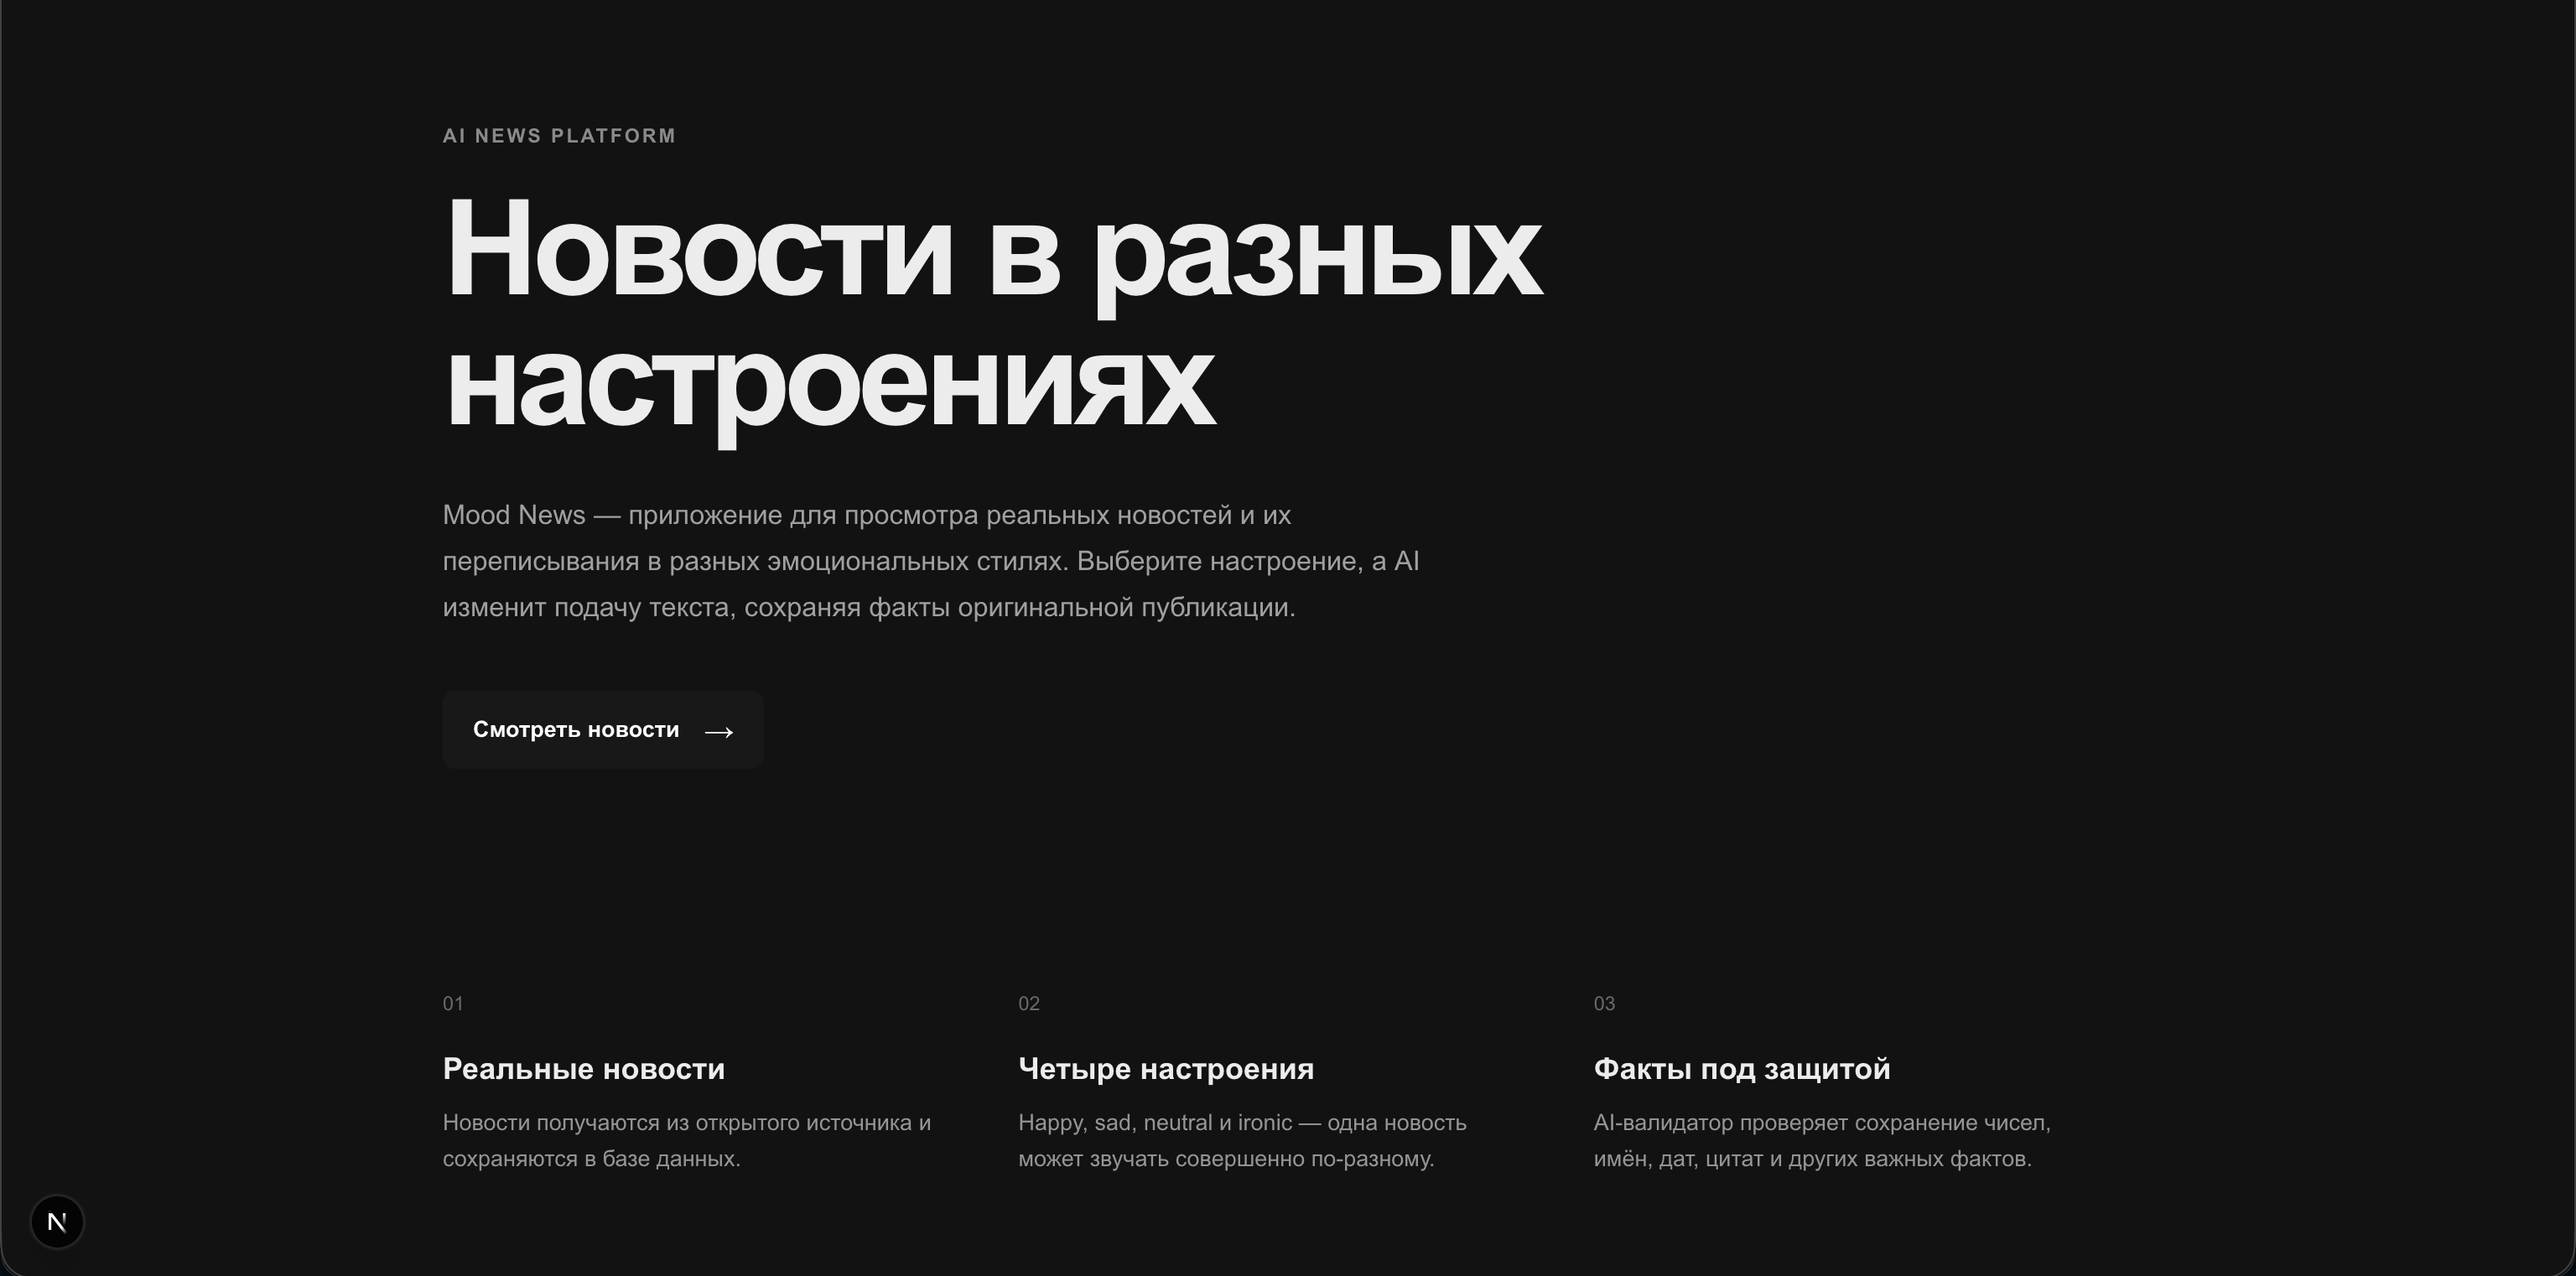
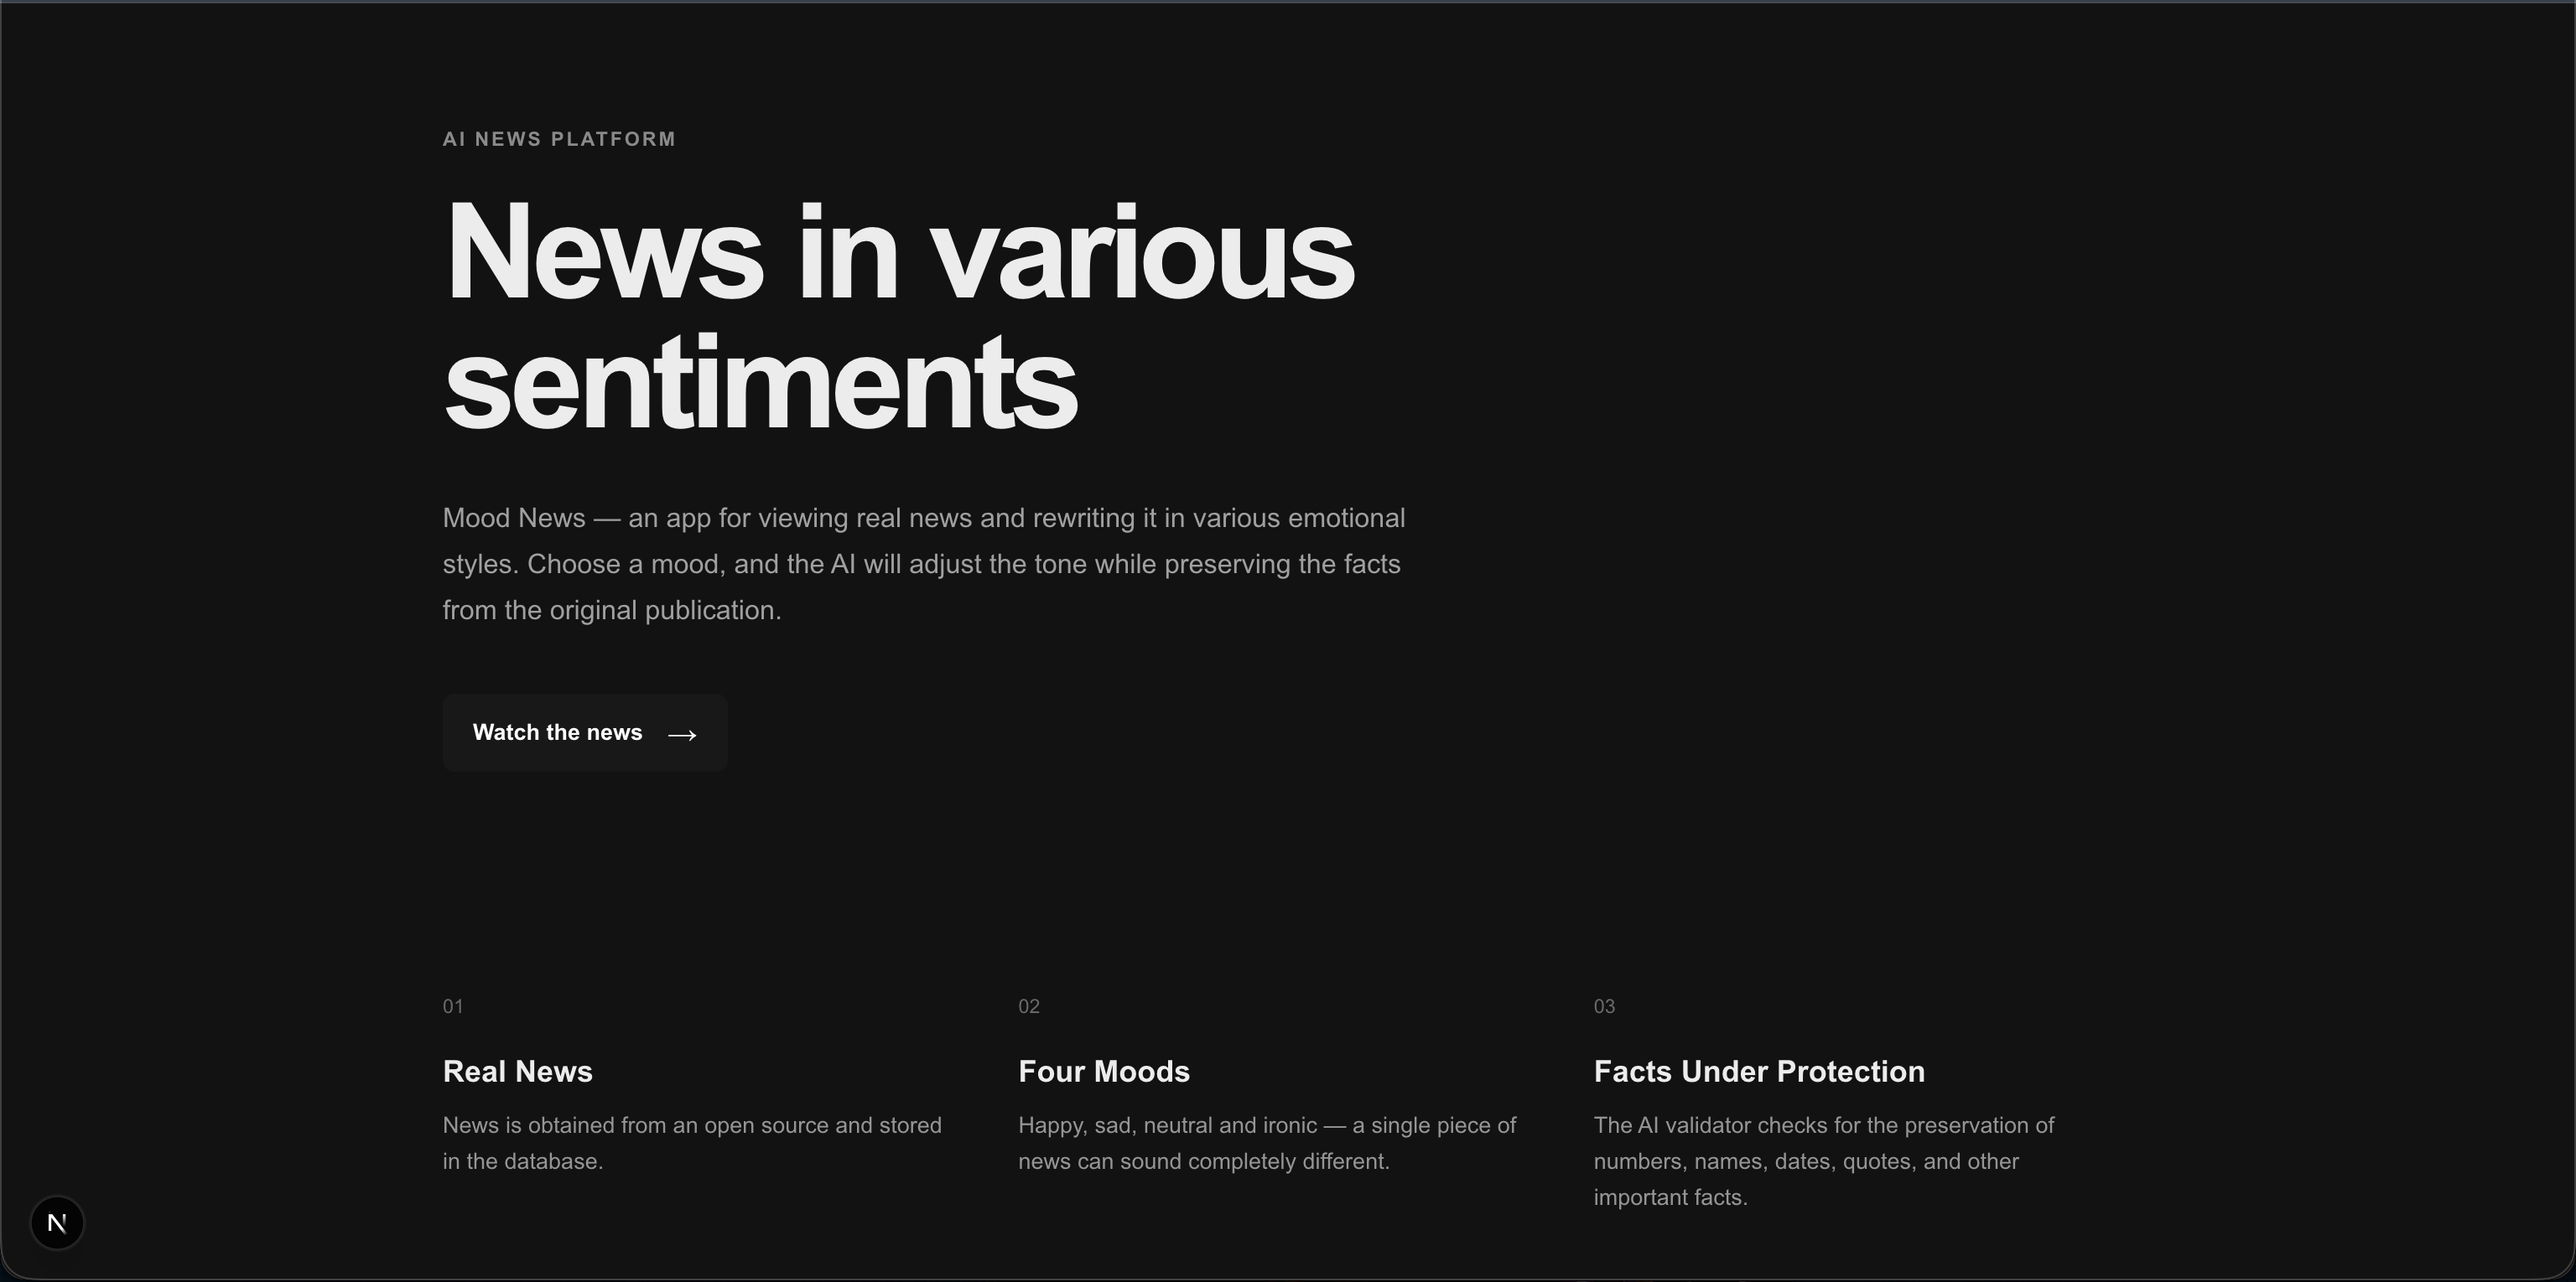
Translate UI text from Russian to English

diff --git a/news-mood/src/app/page.tsx b/news-mood/src/app/page.tsx
@@ -9,19 +9,19 @@ const Home = () => {
           <span className={styles.label}>AI News Platform</span>
 
           <h1 className={styles.title}>
-            Новости в разных
+            News in various
             <br />
-            настроениях
+            sentiments
           </h1>
 
           <p className={styles.description}>
-            Mood News — приложение для просмотра реальных новостей и их
-            переписывания в разных эмоциональных стилях. Выберите настроение, а
-            AI изменит подачу текста, сохраняя факты оригинальной публикации.
+            Mood News — an app for viewing real news and rewriting it in various
+            emotional styles. Choose a mood, and the AI will adjust the tone
+            while preserving the facts from the original publication.
           </p>
 
           <Link href="/news" className={styles.button}>
-            Смотреть новости
+            Watch the news
             <span aria-hidden="true">→</span>
           </Link>
         </section>
@@ -29,28 +29,27 @@ const Home = () => {
         <section className={styles.features}>
           <div className={styles.feature}>
             <span className={styles.featureNumber}>01</span>
-            <h2>Реальные новости</h2>
+            <h2>Real News</h2>
             <p>
-              Новости получаются из открытого источника и сохраняются в базе
-              данных.
+              News is obtained from an open source and stored in the database.
             </p>
           </div>
 
           <div className={styles.feature}>
             <span className={styles.featureNumber}>02</span>
-            <h2>Четыре настроения</h2>
+            <h2>Four Moods</h2>
             <p>
-              Happy, sad, neutral и ironic — одна новость может звучать
-              совершенно по-разному.
+              Happy, sad, neutral and ironic — a single piece of news can sound
+              completely different.
             </p>
           </div>
 
           <div className={styles.feature}>
             <span className={styles.featureNumber}>03</span>
-            <h2>Факты под защитой</h2>
+            <h2>Facts Under Protection</h2>
             <p>
-              AI-валидатор проверяет сохранение чисел, имён, дат, цитат и других
-              важных фактов.
+              The AI validator checks for the preservation of numbers, names,
+              dates, quotes, and other important facts.
             </p>
           </div>
         </section>

diff --git a/news-mood/src/features/news/News.tsx b/news-mood/src/features/news/News.tsx
@@ -8,10 +8,10 @@ const News = ({ news }: NewsProps) => {
       <header className={classes.header}>
         <p className={classes.eyebrow}>Mood News</p>
 
-        <h1 className={classes.title}>Новости</h1>
+        <h1 className={classes.title}>News</h1>
 
         <p className={classes.description}>
-          Реальные новости в разных эмоциональных режимах.
+          Real news in various emotional modes.
         </p>
       </header>
 
